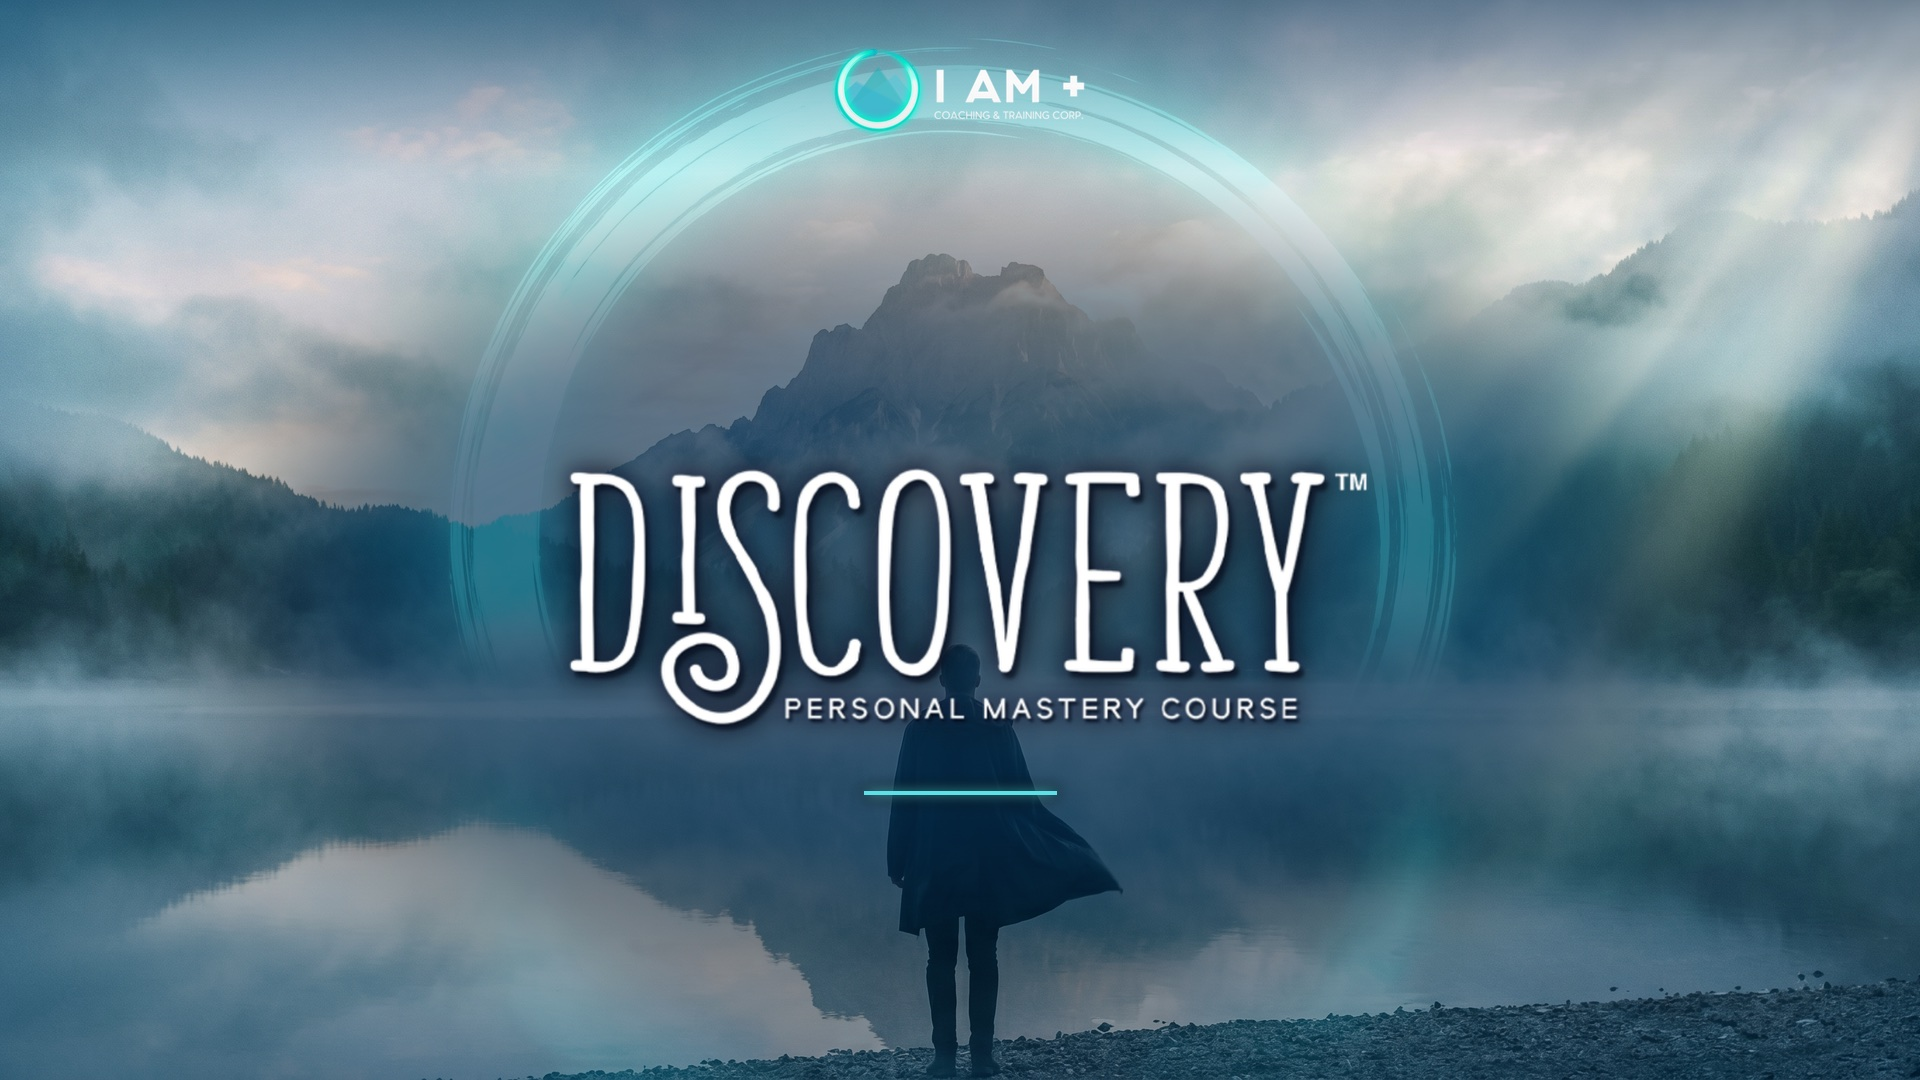
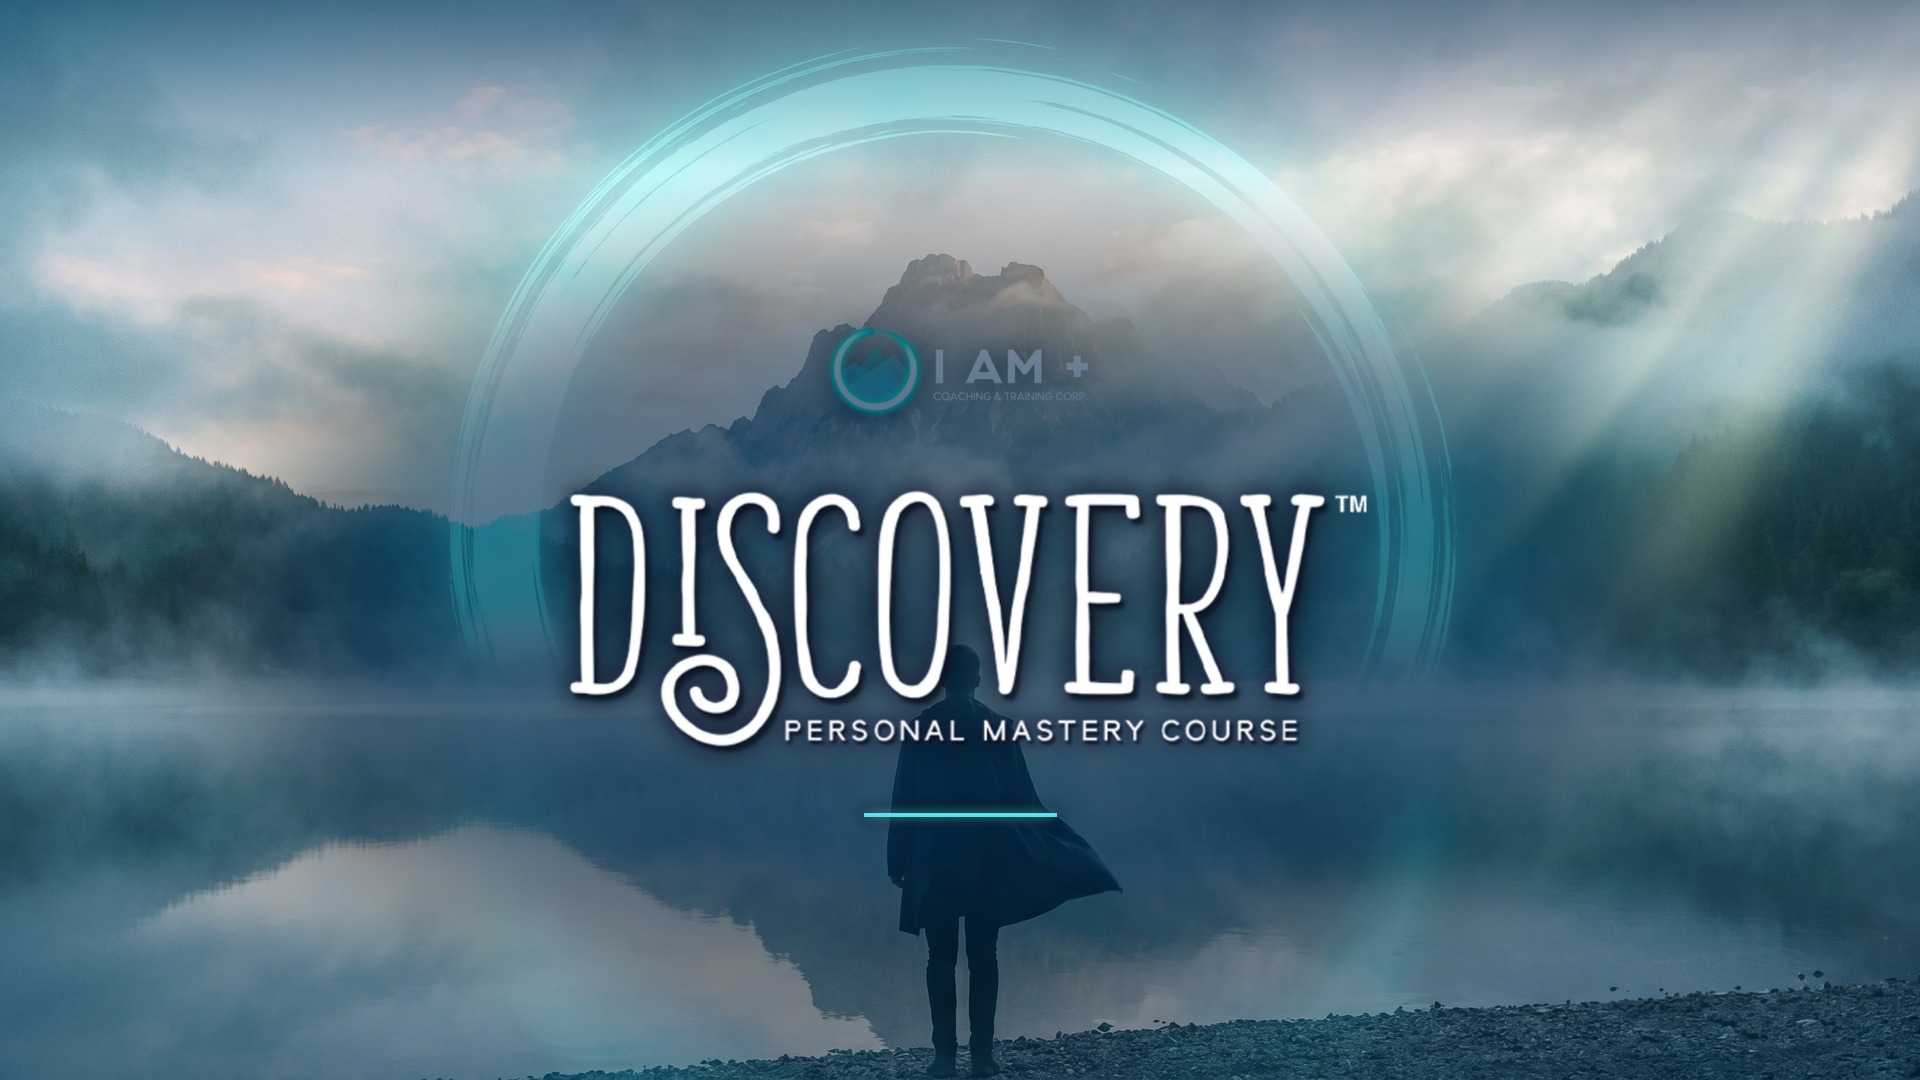
Homepage: restore program-card videos + tighten I AM+ lockups
- Restore the looping videos on the Discovery / Breakthrough / Abundance
  cards (they show the difference between programs at a glance), using the
  new cinematic thumbnails as the video posters.
- Discovery thumbnail: move the I AM+ mark to sit directly above the
  DISCOVERY wordmark so it reads "I AM+ Discovery" (was floating at top).
- Abundance card: bake the I AM+ mark into the wordmark as one centered
  image (ab-logo-a12-iamplus.png) so it stays balanced on desktop + mobile;
  removes the separate mark element that misaligned on desktop.

Changed region(s): [[0.2812, 0.4278, 0.7188, 0.7639], [0.4375, 0.0306, 0.5625, 0.1222], [0.4062, 0.3056, 0.5625, 0.3972]]

diff --git a/programs.html b/programs.html
@@ -187,7 +187,7 @@ body.menu-open .navtoggle span:nth-child(3){transform:rotate(-45deg)}
 .prog__rung b{color:var(--cyan)}
 .prog__body{max-width:52ch}
 .prog__logo{height:auto;width:auto;max-height:clamp(84px,12vw,144px);max-width:100%;margin-bottom:18px;filter:drop-shadow(0 6px 26px rgba(0,0,0,.5))}
-.prog__logo--a12{max-height:clamp(132px,18vw,210px);margin-bottom:14px}
+.prog__logo--a12{max-height:clamp(150px,23vw,272px);margin-bottom:14px}
 .prog__mark{display:block;height:auto;width:clamp(104px,13vw,140px);margin-bottom:14px;filter:drop-shadow(0 4px 18px rgba(0,0,0,.5))}
 .prog__essence{font-family:var(--font-display);font-size:clamp(1.5rem,2.8vw,2.2rem);font-weight:360;color:var(--white);line-height:1.12;margin-bottom:16px}
 .prog__facts{list-style:none;display:grid;gap:11px;margin-bottom:24px}
@@ -448,7 +448,7 @@ body.menu-open .navtoggle span:nth-child(3){transform:rotate(-45deg)}
 
       <article class="prog disc" data-reveal>
         <div class="prog__media">
-          <img src="/assets/thumb-discovery.jpg" alt="Discovery — Personal Mastery Course">
+          <video class="autoplay-iv" muted loop playsinline preload="none" poster="/assets/thumb-discovery.jpg" aria-hidden="true"><source src="https://i-am-plus-coaching.vercel.app/assets/discovery-hero-rc.mp4" type="video/mp4"></video>
 
           <div class="prog__glow"></div>
           <span class="prog__rung"><b>01</b> · Discovery</span>
@@ -467,7 +467,7 @@ body.menu-open .navtoggle span:nth-child(3){transform:rotate(-45deg)}
 
       <article class="prog bt" data-reveal>
         <div class="prog__media">
-          <img src="/assets/thumb-breakthrough.jpg" alt="Breakthrough — 3-Day Seminar">
+          <video class="autoplay-iv" muted loop playsinline preload="none" poster="/assets/thumb-breakthrough.jpg" aria-hidden="true"><source src="https://i-am-plus-coaching.vercel.app/assets/bt-band.mp4" type="video/mp4"></video>
 
           <div class="prog__glow"></div>
           <span class="prog__rung"><b>02</b> · Breakthrough</span>
@@ -486,14 +486,13 @@ body.menu-open .navtoggle span:nth-child(3){transform:rotate(-45deg)}
 
       <article class="prog ab" data-reveal>
         <div class="prog__media">
-          <img src="/assets/thumb-abundance.jpg" alt="Abundance 12 — The Game of My Life">
+          <video class="autoplay-iv" muted loop playsinline preload="none" poster="/assets/thumb-abundance.jpg" aria-hidden="true"><source src="https://i-am-plus-coaching.vercel.app/assets/ab-band.mp4" type="video/mp4"></video>
 
           <div class="prog__glow"></div>
           <span class="prog__rung"><b>03</b> · Abundance</span>
         </div>
         <div class="prog__body">
-          <img class="prog__mark" src="https://i-am-plus-coaching.vercel.app/assets/logo-iamplus-white.webp" alt="I AM+ Coaching & Training Corp." width="140" height="47">
-          <img class="prog__logo prog__logo--a12" src="https://i-am-plus-coaching.vercel.app/assets/ab-logo-a12.webp" alt="Abundance 12 — The Game of My Life">
+          <img class="prog__logo prog__logo--a12" src="/assets/ab-logo-a12-iamplus.png" alt="I AM+ Abundance 12 — The Game of My Life">
           <p class="prog__essence">The pinnacle — a two-month high-performance coaching program where mastery becomes a life.</p>
           <ul class="prog__facts">
             <li><svg class="ico" viewBox="0 0 24 24" aria-hidden="true"><path d="m5 12.5 4.5 4.5L19 7"/></svg> Two-month program · 3 in-person Deep Dives</li>